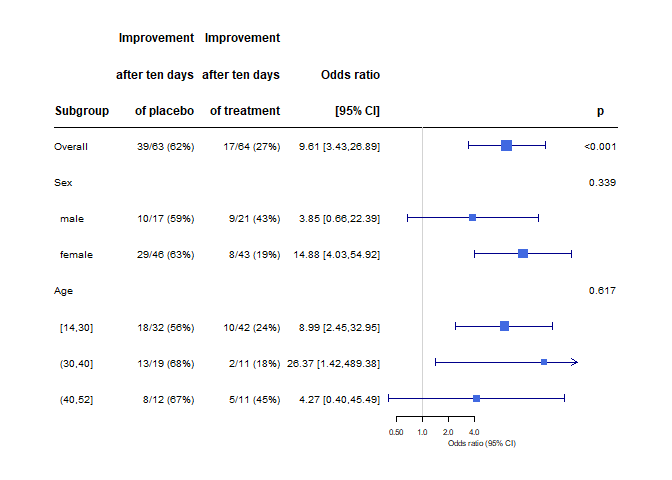
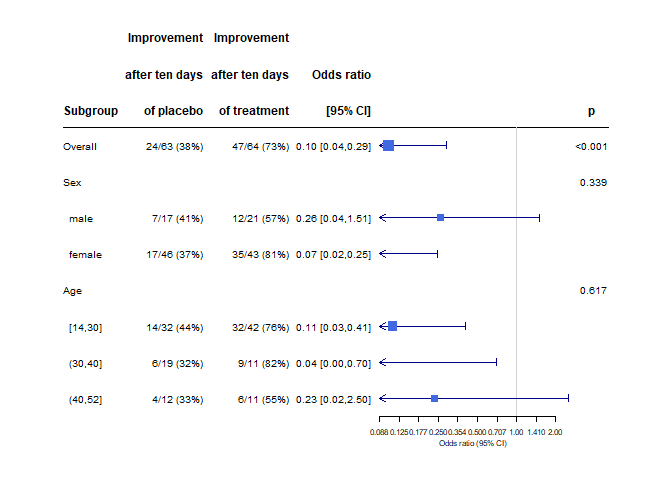
Bug fix: Now the order of favourable and unfavourable outcome doesn't matter :-)

diff --git a/README.md b/README.md
@@ -47,7 +47,7 @@ data(knee, package="catdata")
 knee %>% mutate(Th = factor(Th),
                 Sex = factor(Sex, levels = c(0, 1), labels = c("male", "female")),
                 Age = cut(Age, breaks = c(min(Age), 30, 40, max(Age)), include.lowest = TRUE),
-                R4_improved = factor(if_else(R4 < R1, 1, 0))) ->
+                R4_improved = factor(if_else(R4 < R1, 1, 0), levels = c(1, 0))) ->
   knee
 formula_overall = "R4_improved ~ Th + R1"
 
